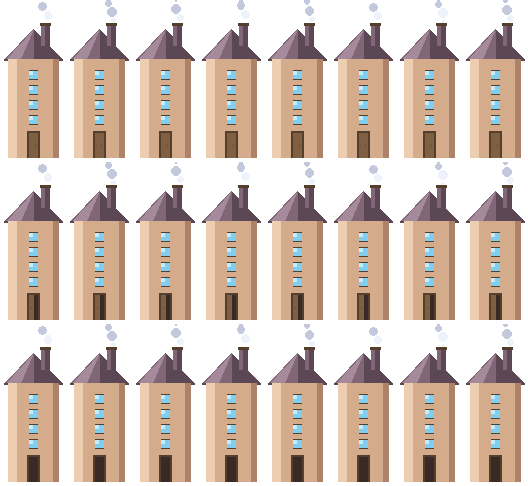
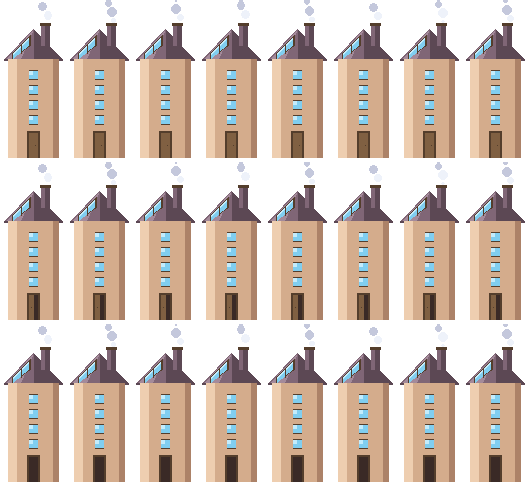
Move the panels onto roofs and the pumps into the village
Two playtest notes, and both were right about the same thing: a prop in the
wrong place is not fixed by placing it better.

**Panels do not belong on the pavement.** A panel belongs on a roof — that is
where the sun is and where anybody would put one. So it is not a placeable
thing any more at all: it is drawn into the townhouse itself, out of the
building's own palette. That deletes the class of problem instead of tuning
it. No cell, no blocking, nothing for the connectivity carve to knock down,
and the `sun-array` fixture, its price, its three noun tables and its shipped
sheet all go with it — a change that removes more than it adds.

Every city roof carries one, not a scattered few: a city where only some
houses have a panel reads as a city where somebody could not afford one. The
variety comes from the roof repaint, which is already per building.

**A pump lifts water for something to grow, and what is beside a quay is the
sea.** The gardens are the one place in this world that actually wants water
lifted, so each village garden gets one at the far corner of its fence.
Outside the fence, so every bed inside stays plantable — that enclosure is
the whole point of a garden. Diagonally opposite the way in, because the
entrance faces the square, which makes that corner the one cell around the
ring nobody walks through to get anywhere. Checked for bounds, footing and
occupancy before it is placed, exactly as the square's lamps are: that a
[…]

diff --git a/src/world/worldGenerator.test.ts b/src/world/worldGenerator.test.ts
@@ -113,11 +113,9 @@ function assertTheHarbourHasSeaInIt(grid: WorldGrid, harbour: AreaPlacement): vo
  * run of quay cells whose length is the coast's business, and pinning a
  * coordinate here would pin the coastline.
  *
- * The wind pump is deliberately not asserted here. It is the rare one —
- * every eleventh quay cell that is not already something else — and a quay
- * short enough to have none is a small harbour rather than a bug. It is
- * asked for at full scale instead, where the harbour is the one the game
- * ships and "no pump" could only mean the rhythm never fires.
+ * The wind pump is asked for by *place*, not merely by count. It moved from
+ * the quay to the village gardens on a playtest note, and a global count
+ * would have gone on passing wherever it had ended up.
  */
 function assertTheBuiltUpPlacesAreDressed(
   grid: WorldGrid,
@@ -126,12 +124,16 @@ function assertTheBuiltUpPlacesAreDressed(
   const standing = (type: string): number =>
     grid.listObjects().filter((object) => object.type === type).length;
 
-  // The city crossings run lamp, panel, lamp, planter, so a city with any
-  // crossings at all has some of each. Lamps are asserted too: the rotation
-  // took two of every four away from them, and a city that got darker to
-  // look nicer would be a bad trade made silently.
+  // The city crossings run lamp, lamp, planter, so a city with any crossings
+  // at all has both. Lamps are asserted too: the rotation took one of every
+  // three away from them, and a city that got darker to look nicer would be
+  // a bad trade made silently.
+  //
+  // Sun panels are not asked about here at all any more. They are drawn on
+  // the townhouse's roof rather than placed on a cell, so there is nothing
+  // in the grid to count — which is most of the reason moving them there was
+  // the right answer and not merely a nicer one.
   expect(standing(FixtureType.Lamp)).toBeGreaterThan(0);
-  expect(standing(FixtureType.SunArray)).toBeGreaterThan(0);
 
   // The quay's planters counted *inside the harbour*, which is the whole
   // point of scoping this rather than counting the world's.
@@ -140,6 +142,29 @@ function assertTheBuiltUpPlacesAreDressed(
   // deleting the quay's arm outright left every test in this file passing,
   // because the city's own planters answered for them. A count that two
   // different places can satisfy is a count that neither place has to.
+  // A wind pump at every village garden, outside its fence. Counted rather
+  // than located: which corner is the far one depends on which way the
+  // garden's way in faces, and pinning that here would pin the layout.
+  //
+  // This one earns its place. The pump moved from the quay to the village
+  // and a count that had stayed global would have gone on passing whichever
+  // of the two it was in, which is exactly the vacuous assertion the quay's
+  // planters caught me writing.
+  const villageBox = world.anchors.village;
+  const inTheVillage = grid
+    .listObjects()
+    .filter((object) => object.type === FixtureType.Windpump)
+    .filter(
+      (object) =>
+        object.col >= villageBox.col &&
+        object.col < villageBox.col + villageBox.width &&
+        object.row >= villageBox.row &&
+        object.row < villageBox.row + villageBox.height,
+    );
+  expect(inTheVillage.length).toBeGreaterThan(0);
+  // And none anywhere else: the quay's arm was deleted, not disabled.
+  expect(standing(FixtureType.Windpump)).toBe(inTheVillage.length);
+
   const harbour = world.harbour;
   if (!harbour) return;
   // Asked of the quay's own cells rather than of a bounding box: the quay is
@@ -592,15 +617,5 @@ describe("generateWorld at full target scale", () => {
     expect(isReachable(reachable, grid, centerOf(anchors.observatory))).toBe(true);
     assertYouCanGetIntoTheSettlements(grid, reachable, world);
     assertGroveIsReachedAndStandsThere(grid, reachable, world.grove);
-
-    // And the wind pump, which is asked for *here* rather than in the sweep.
-    // It is the rare one — every eleventh quay cell that is not already
-    // something else — and the sweep's worlds are small enough that a quay
-    // with none on it is a short quay rather than a bug. A five-hundred-cell
-    // world has the harbour the game actually ships, so if the rhythm never
-    // fires here it never fires.
-    expect(
-      grid.listObjects().filter((object) => object.type === FixtureType.Windpump).length,
-    ).toBeGreaterThan(0);
   });
 });

diff --git a/src/world/harbour.ts b/src/world/harbour.ts
@@ -743,17 +743,19 @@ export function layoutHarbour(grid: WorldGrid, box: AreaPlacement, rng: Rng): Ha
   }
 
   // The fish market: stalls along the front, between the piers, a lamp at
-  // each pier root so the quay is legible after dark, and — since a playtest
-  // asked for somewhere with a bit more solarpunk in it — the glass and
-  // brass that says a working quay rather than a fishing village.
+  // each pier root so the quay is legible after dark, and greenery between
+  // them — a working front with nothing growing on it is a wharf.
   //
-  // **Four rhythms sharing one run of cells, in a chain, so the order they
-  // are written in is the order they get first refusal.** A cell is a
-  // stall, else a lamp, else a pump, else a planter — and because it is a
-  // chain rather than four independent tests, the *last* arm is the common
-  // one however small its modulus looks. Greenery is what has to be
-  // everywhere and a pump is what one should come round a corner and find,
-  // so the greenery is last and the pump is on eleven.
+  // **Three rhythms sharing one run of cells, in a chain, so the order they
+  // are written in is the order they get first refusal.** A cell is a stall,
+  // else a lamp, else a planter — and because it is a chain rather than
+  // three independent tests, the *last* arm is the common one however small
+  // its modulus looks. Greenery is what has to be everywhere, so it is last.
+  //
+  // A wind pump was on this quay and has gone to the village. A playtest
+  // said it did not make sense here and it does not: a pump lifts water for
+  // something to grow, and what is beside a quay is the sea. The gardens are
+  // where the water is wanted.
   //
   // `put` refuses a cell that is already taken, so nothing here has to be
   // undone: a rhythm that lands on an occupied cell simply does not place,
@@ -775,15 +777,6 @@ export function layoutHarbour(grid: WorldGrid, box: AreaPlacement, rng: Rng): Ha
     } else if (n % 7 === 0) {
       placed.push(
         ...[put(grid, `harbour-lamp-${n}`, FixtureType.Lamp, cell)]
-          .filter(Boolean)
-          .map((o) => o as PlacedObject),
-      );
-    } else if (n % 11 === 0) {
-      // The rare one, and rare on purpose: a quay with a pump every third
-      // cell is a pump farm, and what one wants is to come round the corner
-      // of a warehouse and find one turning.
-      placed.push(
-        ...[put(grid, `harbour-pump-${n}`, FixtureType.Windpump, cell)]
           .filter(Boolean)
           .map((o) => o as PlacedObject),
       );

diff --git a/src/world/villageLayout.ts b/src/world/villageLayout.ts
@@ -726,6 +726,44 @@ export function layoutVillage(grid: WorldGrid, village: AreaPlacement, seed = 0)
             (isGate && !onSide && cell.col > gate.col),
         });
       }
+      // A wind pump at the far corner of the fence, outside it.
+      //
+      // It was on the quay and a playtest said it did not make sense there,
+      // which is right: a pump lifts water for something to grow, and what
+      // is beside a quay is the sea. A garden is the one place in this world
+      // that actually wants water lifted, so that is where it belongs — and
+      // standing it *outside* the fence keeps every bed inside plantable,
+      // which is the whole point of the enclosure.
+      //
+      // The far corner rather than a near one: the way in faces the square,
+      // so the corner diagonally opposite the gate is the one cell around
+      // this fence that nobody walks through to get anywhere.
+      const pump = {
+        col: gate.col > gardenCenter.col ? left - 1 : right + 1,
+        row: gate.row > gardenCenter.row ? topRow - 1 : bottomRow + 1,
+      };
+      // Checked rather than assumed, exactly as the square's lamps are: that
+      // a corner is clear is a property of today's layout and not a law of
+      // it, and a pump dropped on a path would wall a garden off from its
+      // own house.
+      if (
+        grid.inBounds(pump.col, pump.row) &&
+        grid.isPassable(pump.col, pump.row) &&
+        !grid.getObjectAt(pump.col, pump.row)
+      ) {
+        grid.placeObject({
+          id: `${spec.id}-windpump`,
+          type: FixtureType.Windpump,
+          col: pump.col,
+          row: pump.row,
+          width: 1,
+          height: 1,
+          blocksMovement: true,
+          anchorCol: pump.col,
+          anchorRow: pump.row,
+        });
+      }
+
       // Standing in their own beds, inside their own fence: the first thing
       // the game is about is the thing the player is stood in. Recorded for
       // every house rather than only the first, because there are four

diff --git a/src/world/city.ts b/src/world/city.ts
@@ -492,19 +492,21 @@ export function layoutCity(grid: WorldGrid, box: AreaPlacement, rng: Rng): CityL
   // and also the only cells the grid guarantees are clear.
   //
   // It was a lamp at every one of them. A playtest asked for somewhere with
-  // a bit more solarpunk about it, and the crossings are where a city says
-  // what kind of city it is — so a lamp, then a sun panel, then greenery,
-  // round and round. Three in rotation rather than a random draw: a child
-  // walking a street should be able to see the pattern, which is also what
-  // stops one crossing looking like a mistake.
+  // a bit more solarpunk about it, so every third crossing is greenery
+  // instead: in rotation rather than at random, because a child walking a
+  // street should be able to see the pattern, which is also what stops one
+  // crossing looking like a mistake.
   //
-  // **The lamp keeps its share and keeps its place in the cycle**, because
-  // it is the only one of the three that does something — it lights the
-  // ground, and a city that swapped a third of its lamps for scenery would
-  // be a city that got darker to look nicer.
+  // **The lamp keeps two of every three**, because it is the one of the pair
+  // that does something — it lights the ground, and a city that swapped half
+  // its lamps for scenery would be a city that got darker to look nicer.
+  //
+  // A sun panel was in this rotation and is not any more. The same playtest
+  // said panels scattered about the place did not look good, and they were
+  // right — a panel belongs on a roof, so it is drawn into the townhouse
+  // itself and this list is back to things that stand on the ground.
   const CROSSING_CYCLE: readonly FixtureType[] = [
     FixtureType.Lamp,
-    FixtureType.SunArray,
     FixtureType.Lamp,
     FixtureType.Planter,
   ];

diff --git a/src/world/fixtures.ts b/src/world/fixtures.ts
@@ -113,19 +113,19 @@ export const FixtureType = {
    */
   Sorter: "sorter",
   /**
-   * The quay and the city, in glass and brass.
+   * Brass and greenery, for the places that are not the village square.
    *
    * A playtest liked the fairytale look and asked for somewhere with a bit
-   * more solarpunk in it, so the answer is *regional* rather than a repaint:
-   * the village stays timber, because timber is the half that worked, and
-   * these go where the world is already built up.
+   * more solarpunk in it, and these are the part of that answer a *game*
+   * places. The other part is on the roofs — a sun panel is drawn into the
+   * townhouse rather than standing on a cell, because a panel scattered
+   * about a place looks exactly like a panel scattered about a place, which
+   * is what the playtest said about the first version.
    *
-   * World generation's, like the well and the market stall. A child who
-   * could buy a length of solar array could put one in a wood, and what
-   * these are for is saying *what kind of place this is* — which is a fact
-   * about the place rather than about who lives there.
+   * World generation's, like the well and the market stall. What these are
+   * for is saying *what kind of place this is*, which is a fact about the
+   * place rather than about who lives there.
    */
-  SunArray: "sun-array",
   Windpump: "windpump",
   Planter: "planter",
 } as const;

diff --git a/src/i18n/de.ts b/src/i18n/de.ts
@@ -79,7 +79,6 @@ const FIXTURES: Record<FixtureType, Noun> = {
   [FixtureType.Scarecrow]: noun({ bare: "Vogelscheuche", gender: "f", plural: "Vogelscheuchen" }),
   [FixtureType.Flowerpot]: noun({ bare: "Blumentopf", gender: "m", plural: "Blumentöpfe" }),
   [FixtureType.Sorter]: noun({ bare: "Sortierer", gender: "m", plural: "Sortierer" }),
-  [FixtureType.SunArray]: noun({ bare: "Sonnenplatte", gender: "f", plural: "Sonnenplatten" }),
   [FixtureType.Windpump]: noun({ bare: "Windpumpe", gender: "f", plural: "Windpumpen" }),
   [FixtureType.Planter]: noun({ bare: "Pflanzkasten", gender: "m", plural: "Pflanzkästen" }),
   [FixtureType.Gate]: noun({ bare: "Tor", gender: "n", plural: "Tore" }),

diff --git a/src/i18n/hr.ts b/src/i18n/hr.ts
@@ -134,14 +134,8 @@ const FIXTURE_FORMS: Record<FixtureType, HrNoun> = {
     few: "razvrstavača",
     many: "razvrstavača",
   },
-  // Two feminine and one masculine, and the masculine is inanimate, so its
+  // One feminine and one masculine, and the masculine is inanimate, so its
   // accusative is its nominative — the same shape as *bunar* and the sorter.
-  [FixtureType.SunArray]: {
-    one: "sunčana ploča",
-    acc: "sunčanu ploču",
-    few: "sunčane ploče",
-    many: "sunčanih ploča",
-  },
   [FixtureType.Windpump]: {
     one: "vjetrenjača",
     acc: "vjetrenjaču",

diff --git a/src/i18n/en.ts b/src/i18n/en.ts
@@ -60,9 +60,6 @@ const FIXTURES: Record<FixtureType, Noun> = {
   // The first machine. Named for what it does rather than for what it is
   // made of, which is how a child will point at it.
   [FixtureType.Sorter]: noun("sorter"),
-  // Named for what they are, not for what they run on: a child points at a
-  // sun panel, not at a photovoltaic array.
-  [FixtureType.SunArray]: noun("sun panel"),
   [FixtureType.Windpump]: noun("wind pump"),
   [FixtureType.Planter]: noun("planter"),
   [FixtureType.Gate]: noun("gate"),

diff --git a/src/world/shop.ts b/src/world/shop.ts
@@ -101,7 +101,6 @@ const COST_IN_CROPS: Record<FixtureType, number> = {
   // The quay's and the city's dressing, not for sale for the reason the
   // market stall is not: it is a piece of a place rather than a thing
   // somebody owns.
-  "sun-array": Number.POSITIVE_INFINITY,
   windpump: Number.POSITIVE_INFINITY,
   planter: Number.POSITIVE_INFINITY,
   fence: 2,

diff --git a/docs/GAME_DESIGN.md b/docs/GAME_DESIGN.md
@@ -2726,7 +2726,34 @@ arithmetic in a machine belongs to what it *does* — a sorter deals a heap
 into equal shares, which is the share spell — and a lock on the door of the
 classroom is not a lesson.
 
-**The first one is a sorter**: a hopper, a wheel that turns, and three crates
+**Where the solarpunk went, second time round.** The first pass put sun
+panels on city crossings and wind pumps on the quay, and a playtest called
+both: panels scattered about the place do not look good, and a pump makes no
+sense beside the sea. Both notes were right, and neither wanted a better
+scatter.
+
+A **panel belongs on a roof** — that is where the sun is and where anybody
+would put one — so it is not a placeable thing at all any more. It is drawn
+into the townhouse, on the `"panel"` feature, out of the building's own
+palette. That deletes the whole class of problem rather than tuning it: no
+cell, no blocking, nothing for a connectivity carve to knock down, and one
+fixture, one price and three noun tables gone with it. Every city roof
+carries one, because a city where only some houses have a panel reads as a
+city where somebody could not afford one.
+
+A **pump lifts water for something to grow**, and what is beside a quay is
+the sea. The gardens are the one place in this world that actually wants
+water lifted, so each village garden has one at the far corner of its fence
+— outside it, so every bed inside stays plantable, and diagonally opposite
+the way in, which is the one cell around a fence nobody walks through to get
+anywhere.
+
+What is left on the ground is greenery: planters between the fish stalls and
+at every third city crossing. The lamp keeps the other two of every three,
+because it is the one that does something, and a city that swapped half its
+lamps for scenery would be a city that got darker to look nicer.
+
+**The first machine is a sorter**: a hopper, a wheel that turns, and three crates
 under it. Its silhouette is its arithmetic — one mouth at the top, three
 boxes at the bottom, the wheel between them doing the dividing — and a child
 who has never tapped it should be able to guess what it is for. It is the

diff --git a/README.md b/README.md
@@ -93,7 +93,7 @@ for p in carrot sunflower cactus tomato pepper wheat; do
   cp $OUT/terrain_plants/${p}{.json,_sheet.png} public/assets/plants/
 done
 for f in well fence fence-side table lamp gate stall bench scarecrow flowerpot \
-         sorter sun-array windpump planter \
+         sorter windpump planter \
          fence-corner gate-side gate-side-lower glowcap \
          city-wall city-wall-side city-gate city-gate-side \
          tulip daisy bellflower; do
